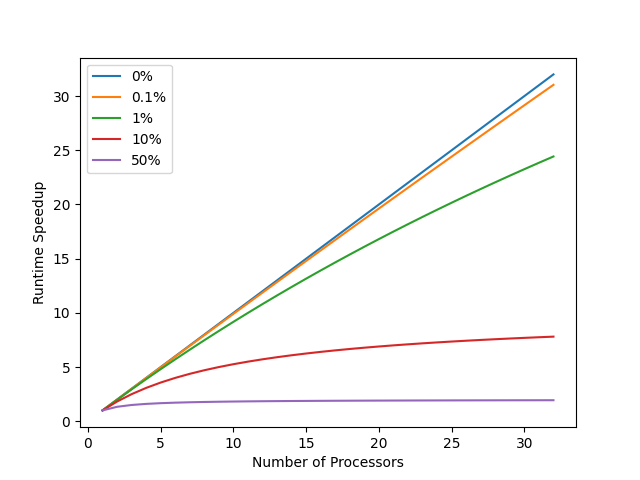
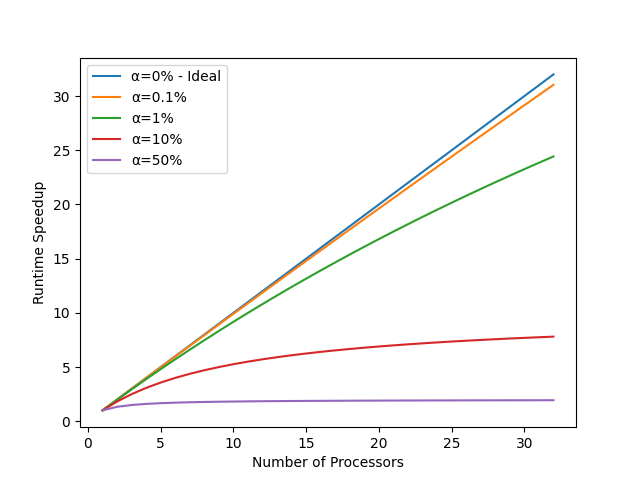
Updating Figure files

Changed region(s): [[0.1875, 0.125, 0.3438, 0.3438]]

diff --git a/TesterFiles/Multiprocessing/Lapack/MatrixMult_Multiprocessing_Lapack.py b/TesterFiles/Multiprocessing/Lapack/MatrixMult_Multiprocessing_Lapack.py
@@ -4,29 +4,44 @@ import pandas as pd
 import numpy as np
 import time
 
-def matrix_mult(i1,i2,j1,j2,mat_size,name_A,name_B):
+def matrix_mult(i,len_i,j,len_j,mat_size,name_A,name_B,name_C):
+    stabiliser_time = time.time()
     existing_shm_A = shared_memory.SharedMemory(name=name_A)
     existing_shm_B = shared_memory.SharedMemory(name=name_B)
-    mat_A = np.ndarray((mat_size,mat_size), dtype=np.float32, buffer=existing_shm_A.buf)
-    mat_B = np.ndarray((mat_size,mat_size), dtype=np.float32, buffer=existing_shm_B.buf)
-    calc_start = time.perf_counter()
-    mat_C = FB.sgemm(alpha=1.0, a=mat_A[i1:i2,:], b=mat_B[:,j1:j2])
-    calc_finish = time.perf_counter()
+    existing_shm_C = shared_memory.SharedMemory(name=name_C)
+    i1 = i*len_i
+    i2 = (i+1)*len_i
+    j1 = j*len_j
+    j2 = (j+1)*len_j
+    sub_mat_A = np.ndarray((mat_size,mat_size), dtype=np.float32, buffer=existing_shm_A.buf)[i1:i2,:]
+    sub_mat_B = np.ndarray((mat_size,mat_size), dtype=np.float32, buffer=existing_shm_B.buf)[:,j1:j2]
+    sub_mat_C = np.ndarray((mat_size,mat_size), dtype=np.float32, buffer=existing_shm_C.buf)
+    calc_start = time.time()
+    sub_mat_C[i1:i2,j1:j2] = FB.sgemm(alpha=1.0, a=sub_mat_A, b=sub_mat_B)
+    calc_finish = time.time()
     existing_shm_A.close()
     existing_shm_B.close()
-    return mat_C, calc_start, calc_finish
+    existing_shm_C.close()
+    return stabiliser_time, calc_start, calc_finish
 
 
 def gen_time_results(mat_size, core_list):
     mat_shape = (mat_size,mat_size)
     data_A = np.random.rand(*mat_shape).astype(np.float32)
     data_B = np.random.rand(*mat_shape).astype(np.float32)
+    data_C = np.empty((mat_size,mat_size),dtype=np.float32)
     shm_A = shared_memory.SharedMemory(create=True, size=data_A.nbytes)
-    shm_B = shared_memory.SharedMemory(create=True, size=data_A.nbytes)
+    shm_B = shared_memory.SharedMemory(create=True, size=data_B.nbytes)
+    shm_C = shared_memory.SharedMemory(create=True, size=data_C.nbytes)
     mat_A = np.ndarray(data_A.shape, dtype=data_A.dtype, buffer=shm_A.buf)
+    mat_A[:] = data_A[:]
     mat_B = np.ndarray(data_B.shape, dtype=data_B.dtype, buffer=shm_B.buf)
+    mat_B[:] = data_B[:]
+    mat_C = np.ndarray(data_C.shape, dtype=data_C.dtype, buffer=shm_C.buf)
+    mat_C[:] = data_C[:]
     name_A = shm_A.name
     name_B = shm_B.name
+    name_C = shm_C.name
     total_times = []
     send_times = []
     calc_times = []
@@ -39,43 +54,46 @@ def gen_time_results(mat_size, core_list):
         pars_i = int(2**(np.ceil(power)))
         pars_j = int(2**(np.floor(power)))
         #Represents the size of each partiton in the i and j axis
-        i_size = int(mat_size/pars_i)
-        j_size = int(mat_size/pars_j)
+        len_i = int(mat_size/pars_i)
+        len_j = int(mat_size/pars_j)
         send_list = []
-        start = time.perf_counter()
-        for i in range(pars_i):
-            for j in range(pars_j):
-                send_list.append([i*i_size,(i+1)*i_size,j*j_size,(j+1)*j_size,mat_size,name_A,name_B])
+        total_start = time.time()
+        send_list = [[i,len_i,j,len_j,mat_size,name_A,name_B,name_C] for j in range(pars_j) for i in range(pars_i)]
         p = Pool(processes=no_cores)
         res_list = p.starmap(matrix_mult, send_list)
         p.close()
-        mat_res_list = [res_list[i][0] for i in range(len(res_list))]
-        result = np.vstack( np.split( np.concatenate(mat_res_list,axis=1) , pars_i, axis=1) )
-        finish = time.perf_counter()
+        total_finish = time.time()
         calc_start_list = []
         calc_finish_list = []
+        res_list = list(res_list)
         for i in range(len(res_list)):
-            calc_start_list.append(res_list[i][1])
-            calc_finish_list.append(res_list[i][2])
+            time_difference = res_list[0][0] - res_list[i][0]
+            calc_start_list.append(res_list[i][1]+time_difference)
+            calc_finish_list.append(res_list[i][2]+time_difference)
         calc_start = min(calc_start_list)
         calc_finish = max(calc_finish_list)
-        send_times.append( round(calc_start-start,10) )
-        calc_times.append( round(calc_finish-calc_start,10) )
-        recv_times.append( round(finish-calc_finish,10) )
-        total_times.append( round(finish-start,10) )
+        send_time = calc_start-total_start
+        calc_time = calc_finish-calc_start
+        gather_time = total_finish-calc_finish
+        total_time = total_finish-total_start
+        assert send_time + calc_time + gather_time == total_time
+        send_times.append( round(send_time,10) )
+        calc_times.append( round(calc_time,10) )
+        recv_times.append( round(gather_time,10) )
+        total_times.append( round(total_time,10) )
     shm_A.close()
     shm_B.close()
+    shm_C.close()
     shm_A.unlink()
     shm_B.unlink()
+    shm_C.unlink()
     return tuple(send_times), tuple(calc_times), tuple(recv_times), tuple(total_times)
 
 
 def main():
-    #size_list = [2**i for i in range(7,16)]
-    size_list = [2**i for i in range(16,18)]
+    size_list = [2**i for i in range(7,17)]
     core_list = [2**j for j in range(6)]
-    #no_runs = 10
-    no_runs=4
+    no_runs = 4
     send_time_df = pd.DataFrame(columns=core_list)
     calc_time_df = pd.DataFrame(columns=core_list)
     recv_time_df = pd.DataFrame(columns=core_list)

diff --git a/TesterFiles/Libraries/CompareRuntimes.py b/TesterFiles/Libraries/CompareRuntimes.py
@@ -1,0 +1,71 @@
+from matplotlib import pyplot as plt
+from pathlib import Path
+import pandas as pd
+import re
+
+def read_python_times(path_name):
+    time_df = pd.read_pickle(path_name)
+    time_df = time_df.sort_index()
+    time_df = time_df.groupby(time_df.index).mean()
+    #time_df.columns = ["Numpy matmul","Python dgemm","Python sgemm"]
+    return time_df
+
+
+def read_fortran_times(path_name):
+    fortran_df = pd.read_fwf(path_name)
+    fortran_df.columns = ["NumProcs","MatSize","Times"]
+    fortran_df = fortran_df.pivot(index="MatSize",columns="NumProcs",values="Times")
+    fortran_df = fortran_df.drop([1,2,4,8,16],axis=1)
+    fortran_df.columns = ["Fortran sgemm"]
+    return fortran_df
+
+
+def gen_plot(df,p):
+    #df = df.T
+    print(df.columns)
+    df.plot()
+    plt.xlabel("Matrix Order (N)")
+    plt.ylabel("Runtime (T)")
+    plt.legend()
+    #plt.gca().set_aspect('equal')
+    p = Path.cwd()
+    #plt.show()
+    plt.savefig(f"{p.parent.parent}\Figures\Libraries\Comparing_Parallel_Runtimes.png")
+
+
+def main():
+    p = Path.cwd()
+    
+    start_power = 8
+    end_power = 16
+    norm_index = 0
+
+    print("\n\n")
+    no_lock_df = read_python_times(f"time_df_libraries_no_lock.pkl")
+    no_lock_df = no_lock_df.drop(["Python dgemm (No Lock)","Numpy MatMul (No Lock)"],axis=1)
+    no_lock_df.columns = ["Python Multithreading"]
+    print(f"no_lock_df: \n{no_lock_df}")
+
+    multiprocessing_df = read_python_times(f"{p.parent}\Multiprocessing/Lapack/Time_dfs/total_df.pkl")
+    multiprocessing_df = multiprocessing_df.drop([1,2,4,8,16],axis=1)
+    print(multiprocessing_df.columns)
+    multiprocessing_df.columns = ["Python Multiprocessing (32 Cores)"]
+    print(f"multiprocessing_df: \n{multiprocessing_df}")
+    total_df = no_lock_df.join(multiprocessing_df)
+
+    mpi_df = read_python_times(f"{p.parent}\MPI/Lapack/Time_dfs/total_df.pkl")
+    mpi_df = mpi_df.drop([1,2,4,8,16],axis=1)
+    mpi_df.columns = ["Python MPI (32 Cores)"]
+    print(f"mpi_df: \n{mpi_df}")
+    total_df = total_df.join(mpi_df)
+    
+    fortran_df = read_fortran_times(f"{p.parent}\Fortran/fortran_results.txt")
+    fortran_df.columns = ["Fortran MPI (32 Cores)"]
+    print(f"fortran_df: \n{fortran_df}")
+    total_df = total_df.join(fortran_df)
+
+    gen_plot(total_df,p)
+
+
+if __name__ == '__main__':
+    main()

diff --git a/TesterFiles/Multiprocessing/Gen_Multiprocessing_Barchart_All_Cores.py b/TesterFiles/Multiprocessing/Gen_Multiprocessing_Barchart_All_Cores.py
@@ -12,28 +12,28 @@ for func_name in func_list:
     total_df = pd.read_pickle(f"{func_name}/Time_dfs/total_df.pkl")
     total_df = total_df.sort_index()
     total_df = total_df.groupby(total_df.index).mean()
-    #print(total_df)
+    print(total_df)
 
     scatter_df = pd.read_pickle(f"{func_name}/Time_dfs/scatter_df.pkl")
     scatter_df = scatter_df.sort_index()
     scatter_df = scatter_df.groupby(scatter_df.index).mean()
     norm_scatter_df = scatter_df.combine(total_df, normalise)
-    #print("norm_scatter_df")
-    #print(norm_scatter_df)
+    print("norm_scatter_df")
+    print(norm_scatter_df)
 
     calc_df = pd.read_pickle(f"{func_name}/Time_dfs/calc_df.pkl")
     calc_df = calc_df.sort_index()
     calc_df = calc_df.groupby(calc_df.index).mean()
     norm_calc_df = calc_df.combine(total_df, normalise)
-    #print("norm_calc_df")
-    #print(norm_calc_df)
+    print("norm_calc_df")
+    print(norm_calc_df)
 
     gather_df = pd.read_pickle(f"{func_name}/Time_dfs/gather_df.pkl")
     gather_df = gather_df.sort_index()
     gather_df = gather_df.groupby(gather_df.index).mean()
     norm_gather_df = gather_df.combine(total_df, normalise)
-    #print("norm_gather_df")
-    #print(norm_gather_df)
+    print("norm_gather_df")
+    print(norm_gather_df)
     
     bar_width = 0.1
     mean = sum(range(6))/len(range(6))

diff --git a/TesterFiles/MPI_IO/Gen_MPI_IO_graphs.py b/TesterFiles/MPI_IO/Gen_MPI_IO_graphs.py
@@ -31,7 +31,7 @@ def gen_plot(df,p,speedup,pkl_name):
         plt.ylabel("Runtime Speedup")
     else:
         plt.ylabel("Normalised Runtime")
-    plt.legend()
+    plt.legend([f"N={i}" for i in df.columns])
     p = Path.cwd()
     if speedup:
         plt.savefig(f"{p.parent.parent}\Figures\MPI_IO\MPI_IO_{pkl_name}_speedup.png")
@@ -52,14 +52,14 @@ def main():
         print(f"time df: \n{time_df}")
         speedup_df = apply_speedup(time_df,core_list)
         print(f"speedup df: \n{speedup_df}")
-        #gen_plot(speedup_df,p,True,speedup_pkl_name)
+        gen_plot(speedup_df,p,True,speedup_pkl_name)
     for norm_pkl_name in norm_pkl_list:
         print(f"\n\n{norm_pkl_name}")
         time_df = read_df_pickle(f"Time_dfs/{norm_pkl_name}_df.pkl")
         print(f"time df: \n{time_df}")
         norm_df = apply_norm(time_df,0,core_list)
         print(f"norm df: \n{norm_df}")
-        #gen_plot(norm_df,p,False,norm_pkl_name)
+        gen_plot(norm_df,p,False,norm_pkl_name)
 
 
 if __name__ == '__main__':

diff --git a/TesterFiles/Multiprocessing/Gen_multiprocessing_graphs.py b/TesterFiles/Multiprocessing/Gen_multiprocessing_graphs.py
@@ -32,11 +32,10 @@ def gen_plot(df,p,speedup,pkl_name,func_name):
     else:
         plt.ylabel("Normalised Runtime")
     plt.legend([f"N={n}" if n != "Ideal" else "Ideal" for n in df.columns])
-    plt.show()
-    #if speedup:
-    #    plt.savefig(f"{p.parent.parent}\Figures\Multiprocessing\multiprocessing_{func_name}_{pkl_name}_speedup.png")
-    #else:
-    #    plt.savefig(f"{p.parent.parent}\Figures\Multiprocessing\multiprocessing_{func_name}_{pkl_name}_norm.png")
+    if speedup:
+        plt.savefig(f"{p.parent.parent}\Figures\Multiprocessing\multiprocessing_{func_name}_{pkl_name}_speedup.png")
+    else:
+        plt.savefig(f"{p.parent.parent}\Figures\Multiprocessing\multiprocessing_{func_name}_{pkl_name}_norm.png")
 
 
 def main():

diff --git a/TesterFiles/MonteCarlo/Gen_Monte_Carlo_speedup_graphs.py b/TesterFiles/MonteCarlo/Gen_Monte_Carlo_speedup_graphs.py
@@ -26,12 +26,12 @@ def apply_speedup(time_df,core_list):
 def gen_plot(df,p,speedup):
     df = df.T
     df.plot()
-    plt.xlabel("Number of processors (p)")
+    plt.xlabel("Number of processors (P)")
     if speedup:
-        plt.ylabel("Runtime Speedup")
+        plt.ylabel("Runtime Speedup (S)")
     else:
         plt.ylabel("Normalised Runtime")
-    plt.legend([f"10^{i}" if i != "Ideal" else "Ideal" for i in df.columns])
+    plt.legend([f"N=10^{i}" if i != "Ideal" else "Ideal" for i in df.columns])
     p = Path.cwd()
     if speedup:
         plt.savefig(f"{p.parent.parent}\Figures\MonteCarlo\MonteCarlo_strong_speedup.png")

diff --git a/LearningFiles/LearningMiscellaneous/GustafsonsLaw.py b/LearningFiles/LearningMiscellaneous/GustafsonsLaw.py
@@ -2,15 +2,16 @@ from matplotlib import pyplot as plt
 from pathlib import Path
 import numpy as np
 
-def S(p,f):
-    return (f + p*(1-f))
+def S(p,alpha):
+    return p**2/(p*(1-alpha)+alpha)
 
 
-f_list = [0,0.001,0.01,0.1,0.5]
+alpha_list = [0,0.001,0.01,0.1,0.5]
 x = np.linspace(1,32,32)
 
-for f in f_list:
-    plt.plot(x, S(x,f))
+for alpha in alpha_list:
+    print(f"S(x,{alpha})={max(S(x,alpha))}")
+    plt.plot(x, S(x,alpha))
 
 plt.legend(["0%","0.1%","1%","10%","50%"])
 plt.show()

diff --git a/TesterFiles/Ideal/AmdahlsLaw.py b/TesterFiles/Ideal/AmdahlsLaw.py
@@ -13,8 +13,8 @@ for alpha in alpha_list:
     print(f"S(x,{alpha})={max(S(x,alpha))}")
     plt.plot(x, S(x,alpha))
 
-plt.legend(["0%","0.1%","1%","10%","50%"])
-plt.xlabel("Number of Processors")
-plt.ylabel("Runtime Speedup")
+plt.legend(["\u03B1=0% - Ideal","\u03B1=0.1%","\u03B1=1%","\u03B1=10%","\u03B1=50%"])
+plt.xlabel("Number of Processors (P)")
+plt.ylabel("Runtime Speedup (S)")
 p = Path.cwd()
 plt.savefig(f"{p.parent.parent}\Figures\Ideal\AmdahlsLawPercentages.png")

diff --git a/TesterFiles/Libraries/Gen_Libraries_Runtime_Graph_Table.py b/TesterFiles/Libraries/Gen_Libraries_Runtime_Graph_Table.py
@@ -48,8 +48,8 @@ def gen_plot(df,p,lock_val):
     plt.legend()
     #plt.gca().set_aspect('equal')
     p = Path.cwd()
-    #plt.show()
-    plt.savefig(f"{p.parent.parent}\Figures\Libraries\Library_Normalised_Runtimes_{lock_val}.png")
+    plt.show()
+    #plt.savefig(f"{p.parent.parent}\Figures\Libraries\Library_Normalised_Runtimes_{lock_val}.png")
 
 
 def calc_FLOPS(df):
